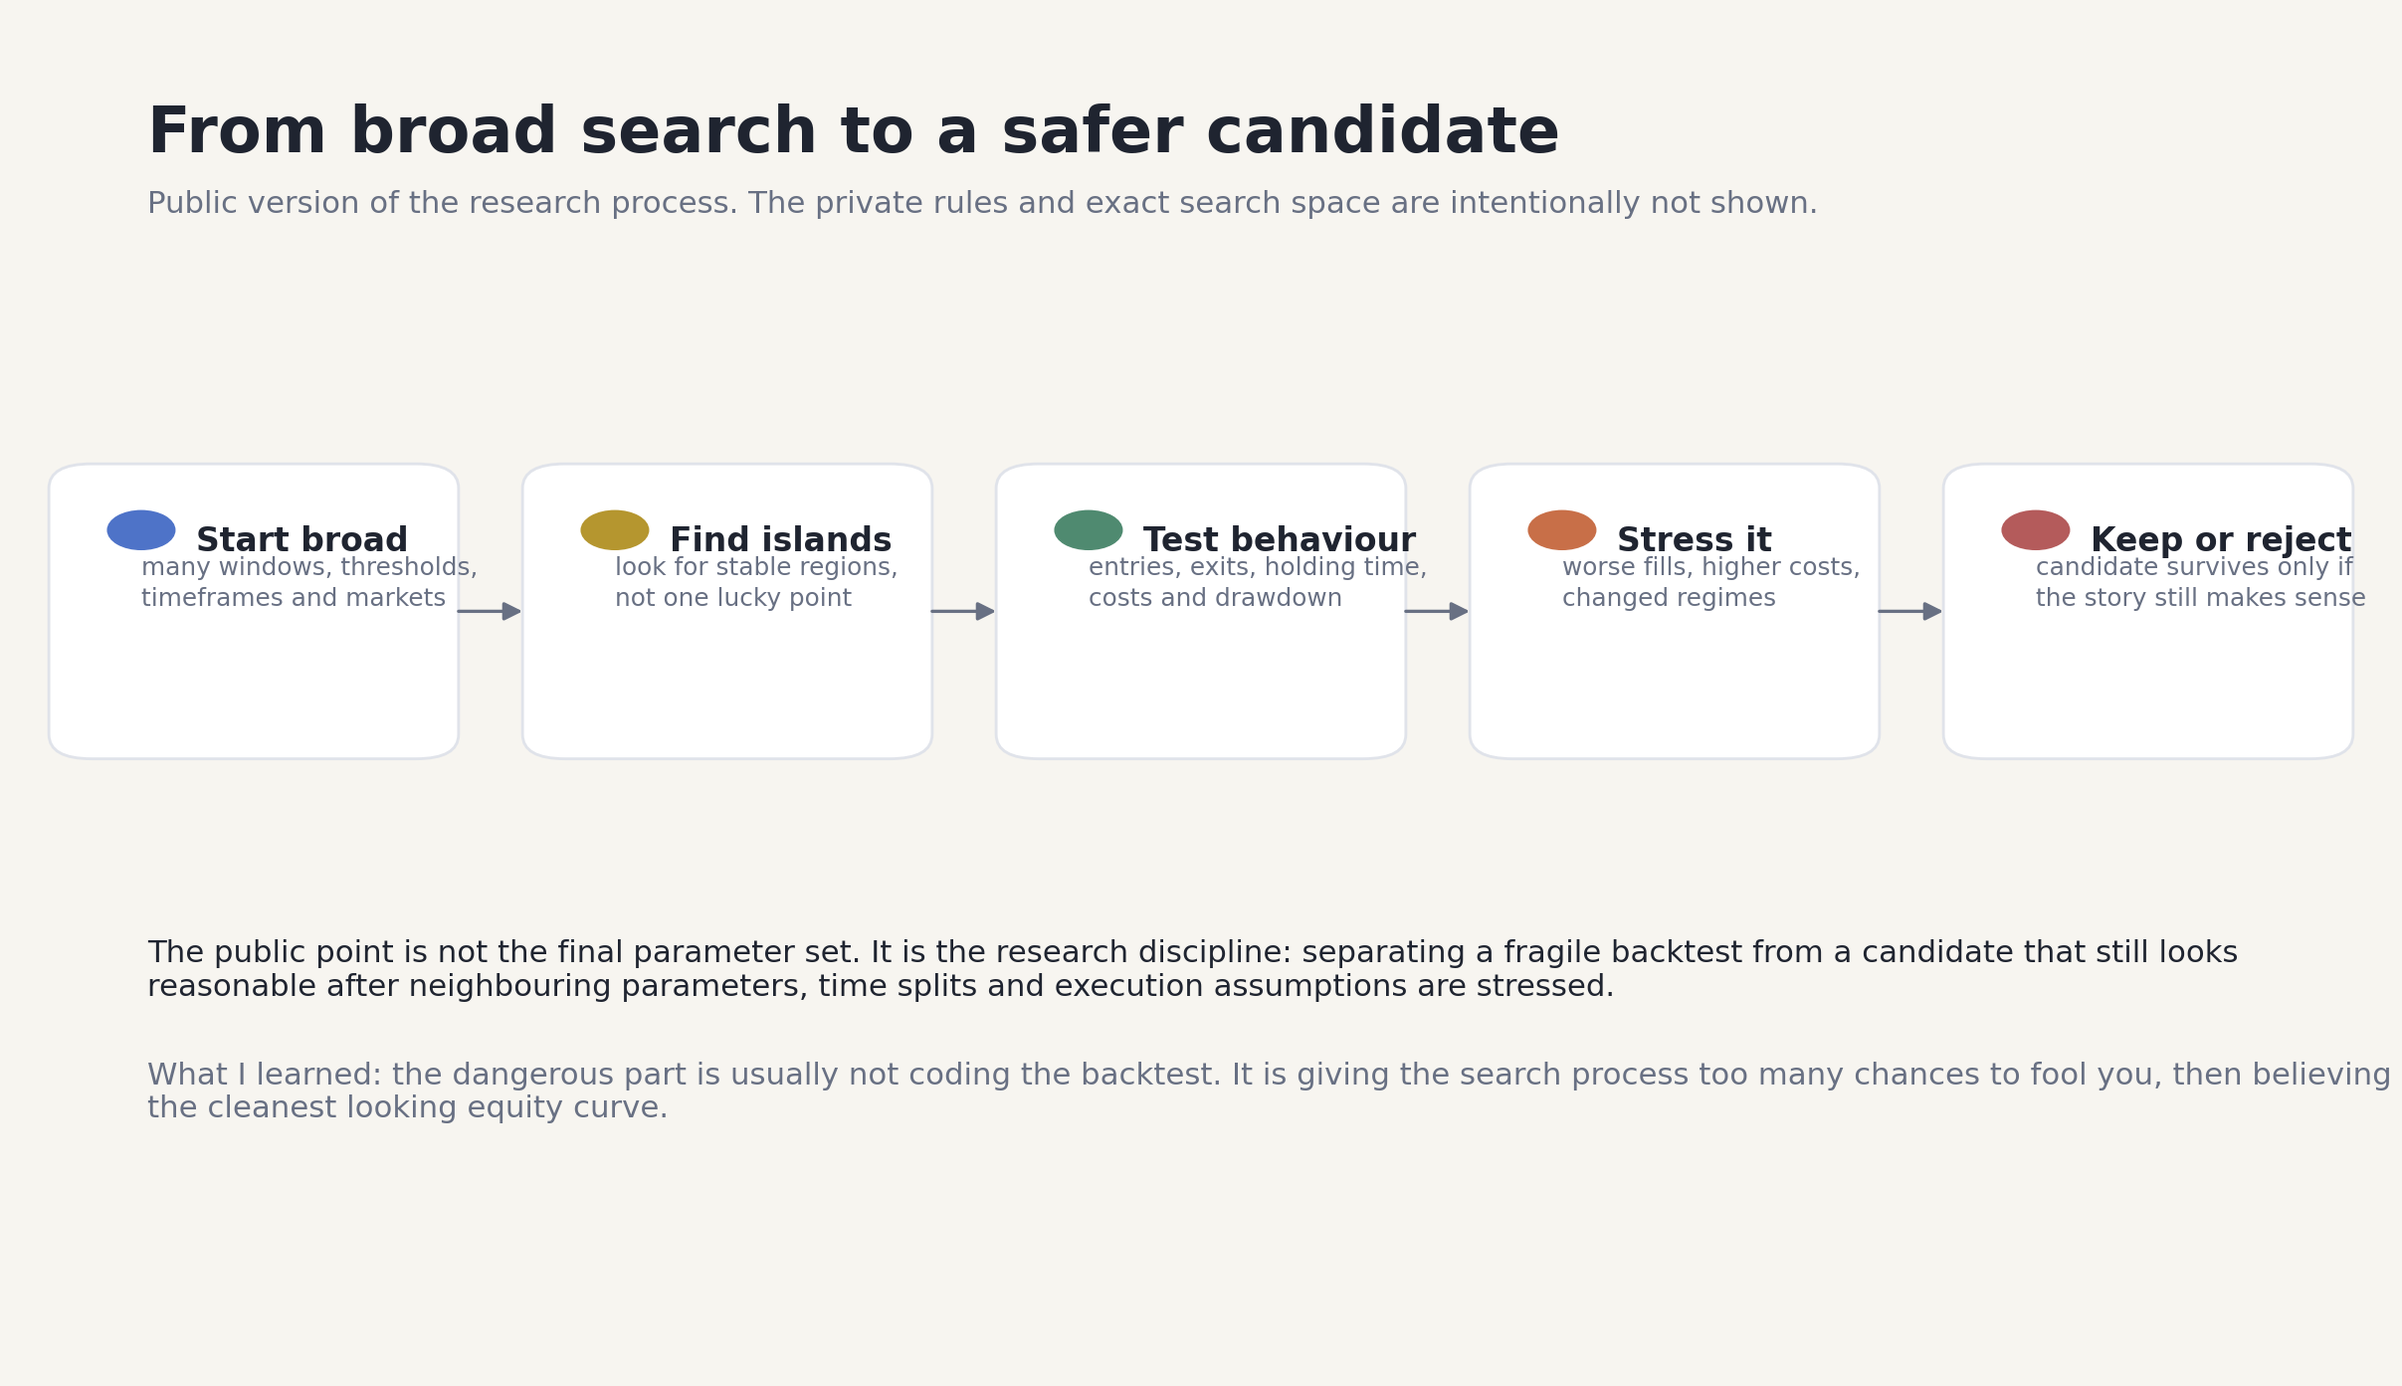
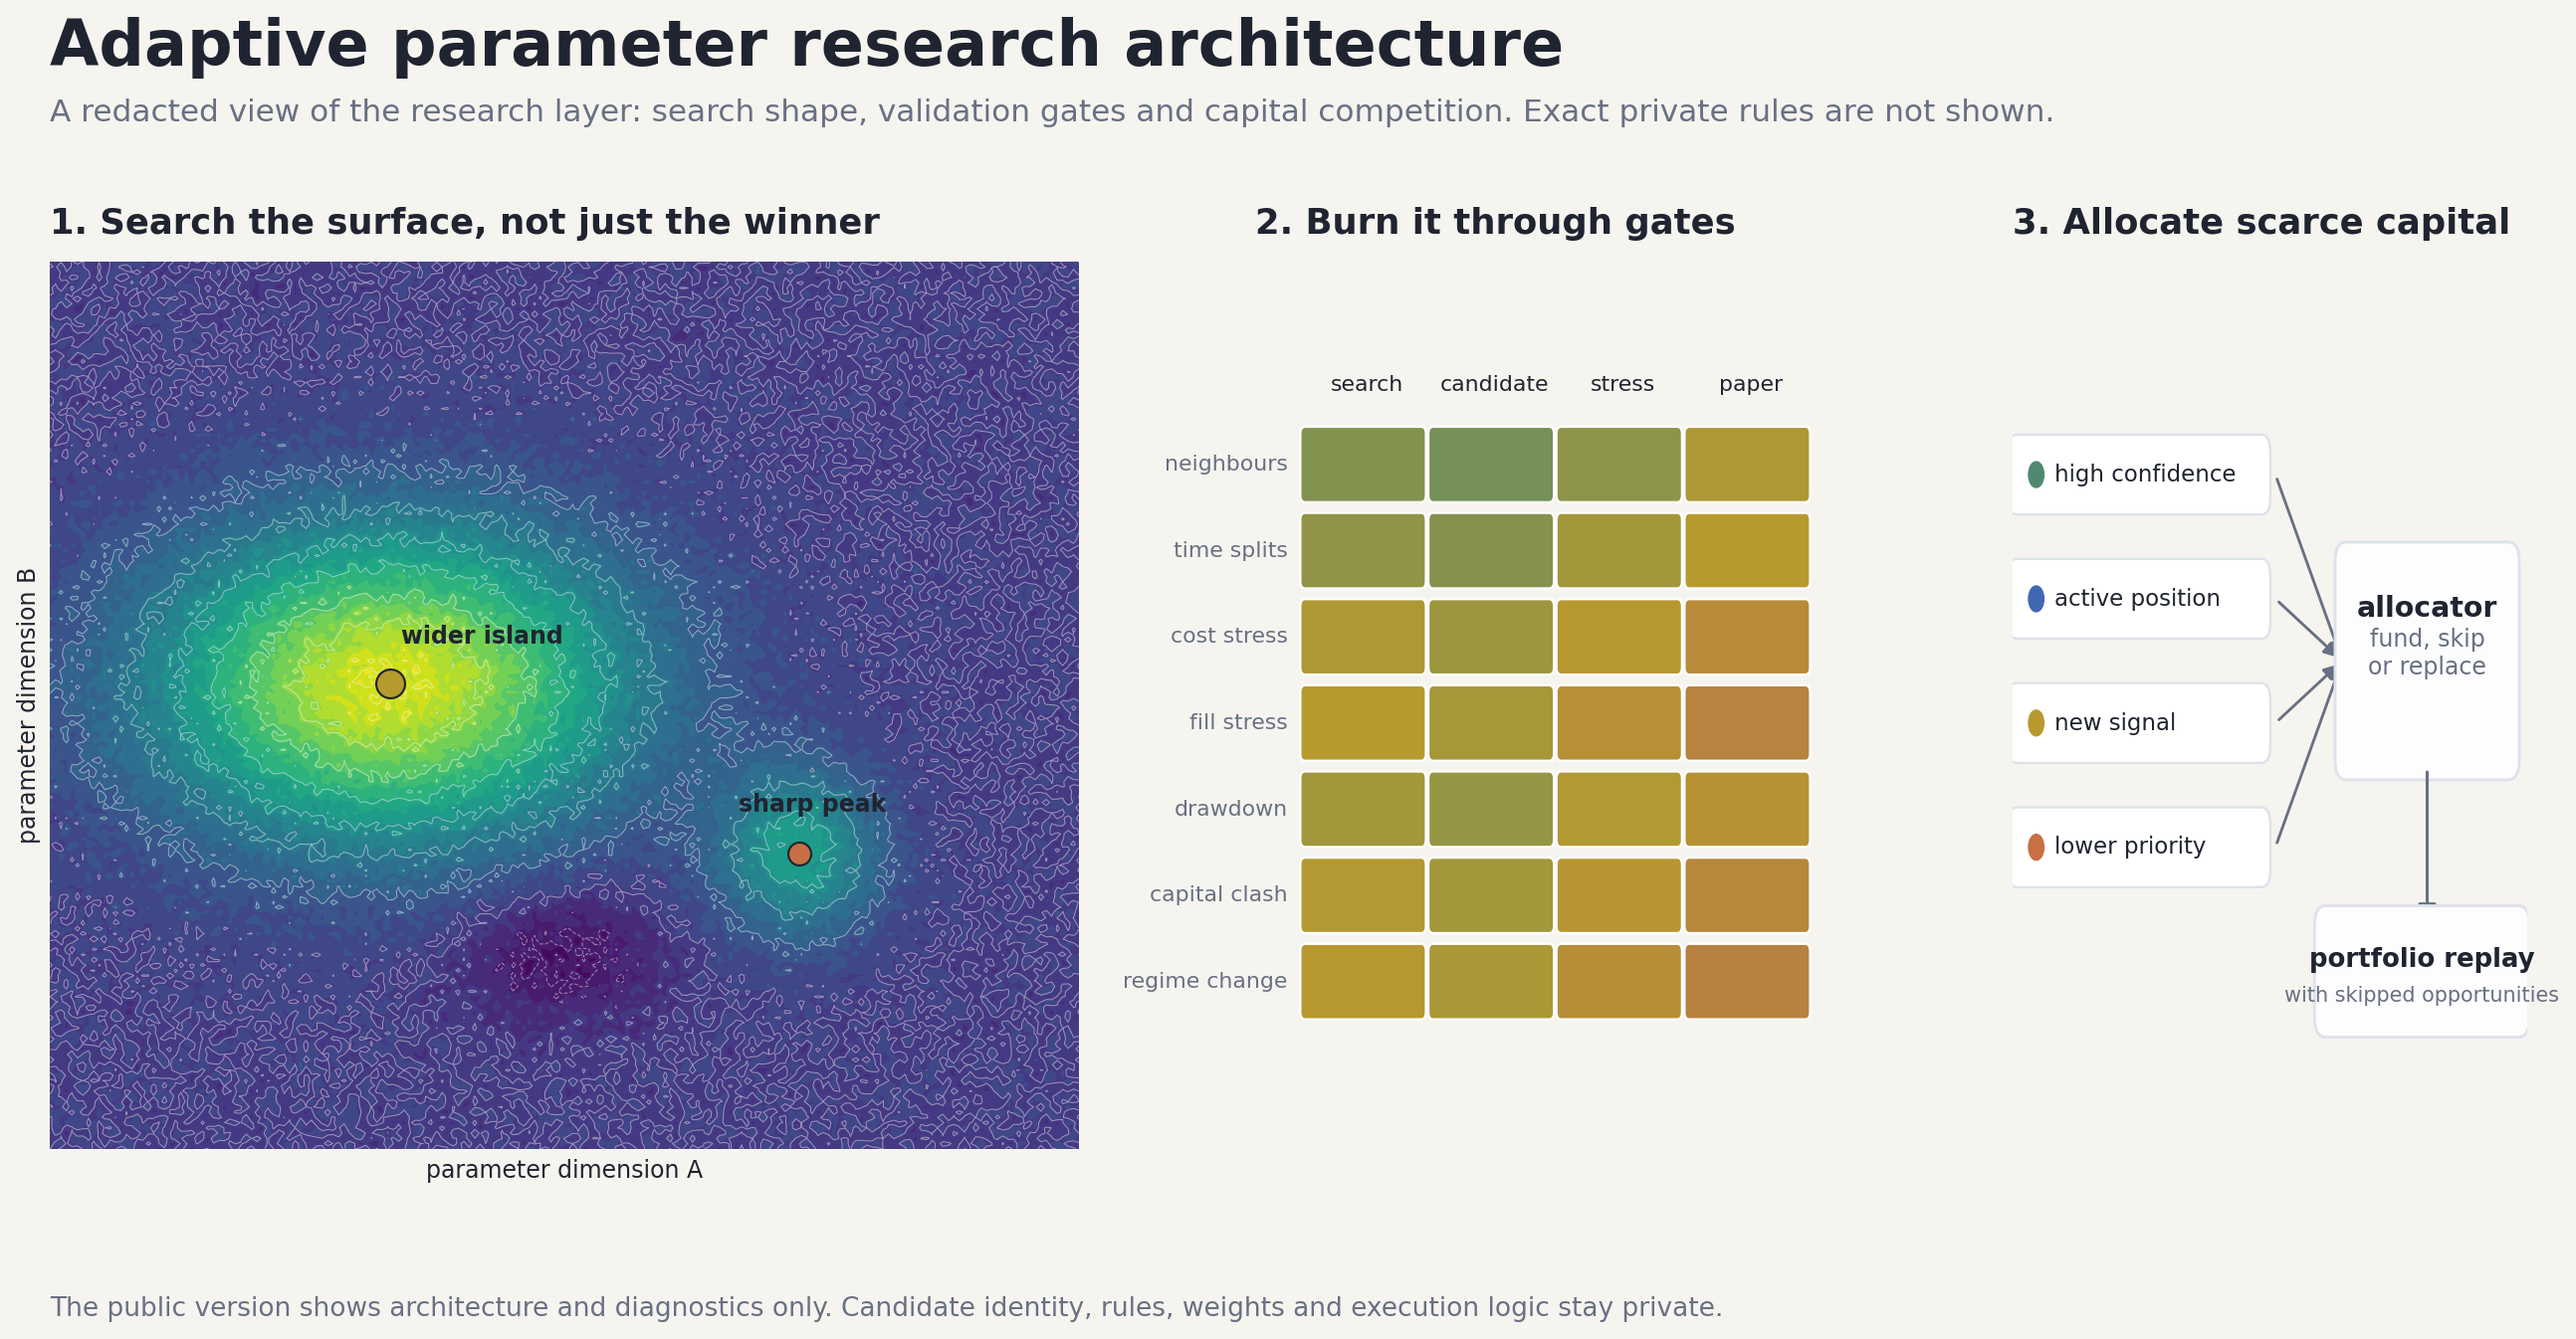
Strengthen redacted quant research presentation

diff --git a/README.md b/README.md
@@ -1,24 +1,22 @@
 # Adaptive Parameter Optimisation Algorithm
 
-This repository is the public part of a larger private research project I have been working on for months. The private project is about building and stress testing adaptive trading systems. The public version is deliberately not a copyable strategy. It is meant to show the research process, the diagnostics, the mistakes I tried to avoid and the way I think about turning a rough trading idea into something that can actually be tested.
+This repository is a redacted public view of a private quantitative research project I have been building for months. The private system is about adaptive parameter search, execution aware backtesting and capital allocation across competing signals. This public version is not meant to be a cloneable trading strategy. It is meant to show the research architecture and the level of validation behind the work, while keeping the actual edge private.
 
-The project started from a simple problem. A fixed mean reversion setup can look good in one market and then fall apart as soon as costs, exits or the market regime change. So instead of asking whether one manually chosen parameter set worked, I started asking whether the system could research the market first. That means looking across many possible settings, finding regions that behave consistently, checking whether the result survives neighbouring parameters, and then asking if the trade logic still makes sense after realistic costs and worse execution assumptions.
+The starting point was a simple problem I kept running into: a fixed setup can look good in one market, one volatility regime or one hand picked window, and then become useless as soon as costs, execution or market structure changes. I did not want to keep manually choosing one moving average, one deviation and one exit rule and then overinterpreting the best result. The more interesting question was whether the system could research the market first, map the parameter space, find stable regions, and then reject candidates that only worked because the search process gave them too many chances to get lucky.
 
-I am not publishing the exact private strategy, selected parameters, search domains, sleeve structure, execution rules, live setup or final candidate details. That is where the edge would be. What I am publishing is the research layer around it: how I approach parameter search, how I think about overfitting, what kind of diagnostics I built, and what I learned from trying to make the process less fragile.
+The private implementation has more moving parts than this repository shows. Exact markets, candidate identities, search domains, final parameters, sleeve weights, execution logic and live deployment details are intentionally not public. Those are the parts that would make the research too easy to copy. The public layer focuses on the part I actually want to show: how I think about parameter surfaces, overfitting, execution assumptions, skipped opportunities, capital competition and robustness.
 
-![Public research loop](reports/readme_main_showcase/06_public_research_loop.png)
+![Adaptive parameter research architecture](reports/readme_main_showcase/06_public_research_loop.png)
 
-The most important idea in the project is that the useful object is not one perfect parameter point. A single point can be luck, especially if the search space is large enough. I care more about parameter islands. By that I mean areas where nearby settings behave in a similar way. If a candidate only works at one tiny coordinate and collapses immediately around it, I do not trust it. If a wider region keeps working after the assumptions are stressed, it becomes more interesting.
+The core idea is parameter island thinking. I do not trust a single best point very much. If a candidate only works at one exact coordinate and collapses around it, that usually says more about the search process than about the market. A wider area of similar results is more interesting because it suggests that the candidate is not just a tiny accident in a high dimensional grid. This is why the project looks at the shape around a candidate, not only the headline return.
 
-This changed how I looked at the whole problem. The hard part was not only coding a backtest. The hard part was stopping the research process from fooling me. Every extra parameter, timeframe, symbol, filter or exit rule gives the search more chances to find something that looks amazing by accident. So I started treating the search itself as something that needs controls. I wanted to see the shape of the result, not only the best row in a table.
+This also changed how I treated the backtest itself. The backtest is not the end of the research. It is one object that has to be attacked from multiple angles. I care about neighbouring parameters, different time windows, worse costs, worse fills, drawdown shape, concentration, and whether the logic could be regenerated from new bars without looking into the future. A clean equity curve is not enough if it cannot survive those questions.
 
-![Public robustness gates](reports/readme_main_showcase/07_public_robustness_gates.png)
+![Robustness gates](reports/readme_main_showcase/07_public_robustness_gates.png)
 
-The private version goes much further than a fixed moving average test, but the public explanation stays high level on purpose. Conceptually, the system studies how price behaves relative to a changing reference point, how often similar setups historically resolved well, how long successful and failed trades usually took, and how much of the result survives after costs and execution assumptions are made worse. It also has to deal with a problem that becomes very real once several signals compete for the same capital: sometimes the best decision is not just whether a signal is good, but whether it is better than another signal already using the money.
+The harder part became allocation. Once multiple signals or sleeves exist, the system is no longer only asking whether one signal is good. It has to decide whether that signal is the best use of capital at that moment. A position can be profitable and still block a better opportunity. A new signal can look strong but be less useful than a trade already open. This pushed the project away from isolated strategy testing and toward portfolio replay with skipped opportunities, capital constraints and execution realism included in the research loop.
 
-That last part taught me a lot. A strategy can have many promising signals and still waste capital if the allocation logic is weak. A trade can be a good signal but a bad use of capital at that moment. A time stop can protect against large downside in one case and cut a later winner in another. A beautiful equity curve can depend too much on one regime, one symbol or one cluster of trades. Those are the kinds of issues I wanted the research process to expose instead of hiding.
-
-The public visuals use simplified or older examples to show the concept without revealing the private candidate. The dense surface below is useful because it makes the search space visible. It lets you see whether the result looks like a broader region or a sharp isolated spike.
+The public examples below are simplified or older diagnostics. They are included to make the research process visible, not to reveal the current private candidate. The dense surface shows why I care about the geometry of the search space. A surface that contains broad stable regions tells a different story than one sharp peak surrounded by failure.
 
 <p align="center">
   <img src="reports/dense_parameter_surface_xagusd/XAGUSD_sum_net_pct_dense_contour_map.png" alt="Dense parameter contour map" width="850">
@@ -28,28 +26,28 @@ There is also an interactive version of the parameter surface here:
 
 [Open the interactive parameter surface](https://romanmski.github.io/Adaptive_Parameter_Optimisation_Algorithm/visuals/xagusd_parameter_surface.html)
 
-Another thing I learned is that exits deserve as much attention as entries. Some bad looking trades were not bad because the signal was useless. They were bad because the exit logic did not match the path that followed. Other trades looked promising but only because the assumed fill was too generous. That pushed me toward checking holding time distributions, successful and failed trade paths, take profit behaviour, drawdown and cost sensitivity instead of only looking at final return.
+One of the biggest lessons was that exits and holding time are not secondary details. Some trades were not bad because the original signal was useless. They were bad because the exit logic did not fit the path that followed. Other trades looked good only because the assumed fill was too generous. That is why the diagnostics include actual trade paths, holding windows, take profit behaviour and failure cases instead of only summarising final return.
 
 <p align="center">
   <img src="reports/readme_main_showcase/03_best_vs_worst_actual_trade_story.png" alt="Best and worst trade examples" width="850">
 </p>
 
-I also wanted the project to show negative evidence. If a workflow only shows the market where it worked best, it is not very useful. The cross market diagnostics are there because a research process should be able to say no. A setup failing somewhere is not embarrassing if it helps define where the idea is fragile.
+I also wanted the research to show where the idea fails. A model that only presents the best market is not very useful. Cross market tests are useful because negative evidence defines the boundary of the system. If the same workflow works in one environment and fails in another, that is information. It tells me whether I am looking at a general process, a market specific effect, or just a lucky pocket.
 
 <p align="center">
   <img src="reports/readme_main_showcase/04_cross_market_result_by_symbol.png" alt="Cross market result by symbol" width="850">
 </p>
 
-The risk diagnostics are part of the same idea. I do not want to judge a candidate only by one headline return number. I want to know how it behaved through drawdowns, how sensitive it was to costs, whether the profit factor still made sense, and whether the result depended too heavily on one market condition. This is also why the private project keeps separate run artifacts and audit notes. If I cannot reconstruct why a result happened, I do not want to trust it.
+The risk diagnostics are there for the same reason. I do not want to judge a candidate by one return number. I want to know how much drawdown it needed, how fragile the profit factor was, how sensitive it was to costs, and whether the result depended too much on one market condition. If I cannot explain why a candidate survived, I do not want to trust it.
 
 <p align="center">
   <img src="reports/readme_main_showcase/05_risk_diagnostics_by_symbol.png" alt="Risk diagnostics by symbol" width="850">
 </p>
 
-For recruiters or anyone reading this as a portfolio project, the main point is not that this repository contains a ready to run trading bot. It does not. The useful signal is that I can take a messy idea, break it into testable parts, build visual diagnostics, think about overfitting and execution realism, and keep improving the research process when the first version is too naive.
+This project became less about finding one impressive backtest and more about building a research process that is harder to fool. The useful work was in turning a messy idea into testable components, building diagnostics around each failure mode, and forcing the system to keep track of what was searched, what was rejected, and what still needs stronger evidence.
 
-The project also changed how I think about quantitative research. I became much more skeptical of clean backtests, isolated winners and results that only look good because of one period. I learned to care more about neighbour stability, cost stress, drawdown shape, skipped opportunities, capital competition and whether a candidate can be regenerated from new data without looking into the future. That is the part I want this public repository to show.
+The public repository should therefore be read as a research showcase, not a trading product. It demonstrates adaptive parameter search, parameter surface analysis, robustness thinking, execution aware backtesting, trade path diagnostics and capital allocation reasoning. It does not publish the current private strategy, live system, final parameters, selected candidates or execution rules.
 
-This is not financial advice and it should not be read as proof of future profitability. It is a redacted research showcase for an ongoing private project.
+This is not financial advice and it is not proof of future profitability. It is a redacted view into an ongoing private quant research project.
 
-The stack behind the public work is mainly Python, pandas, NumPy, matplotlib, Plotly, parameter surface analysis, backtest diagnostics, statistical testing, stress testing and research visualization.
+The public stack is mainly Python, pandas, NumPy, matplotlib, Plotly, parameter surface analysis, backtest diagnostics, stress testing and research visualization.
